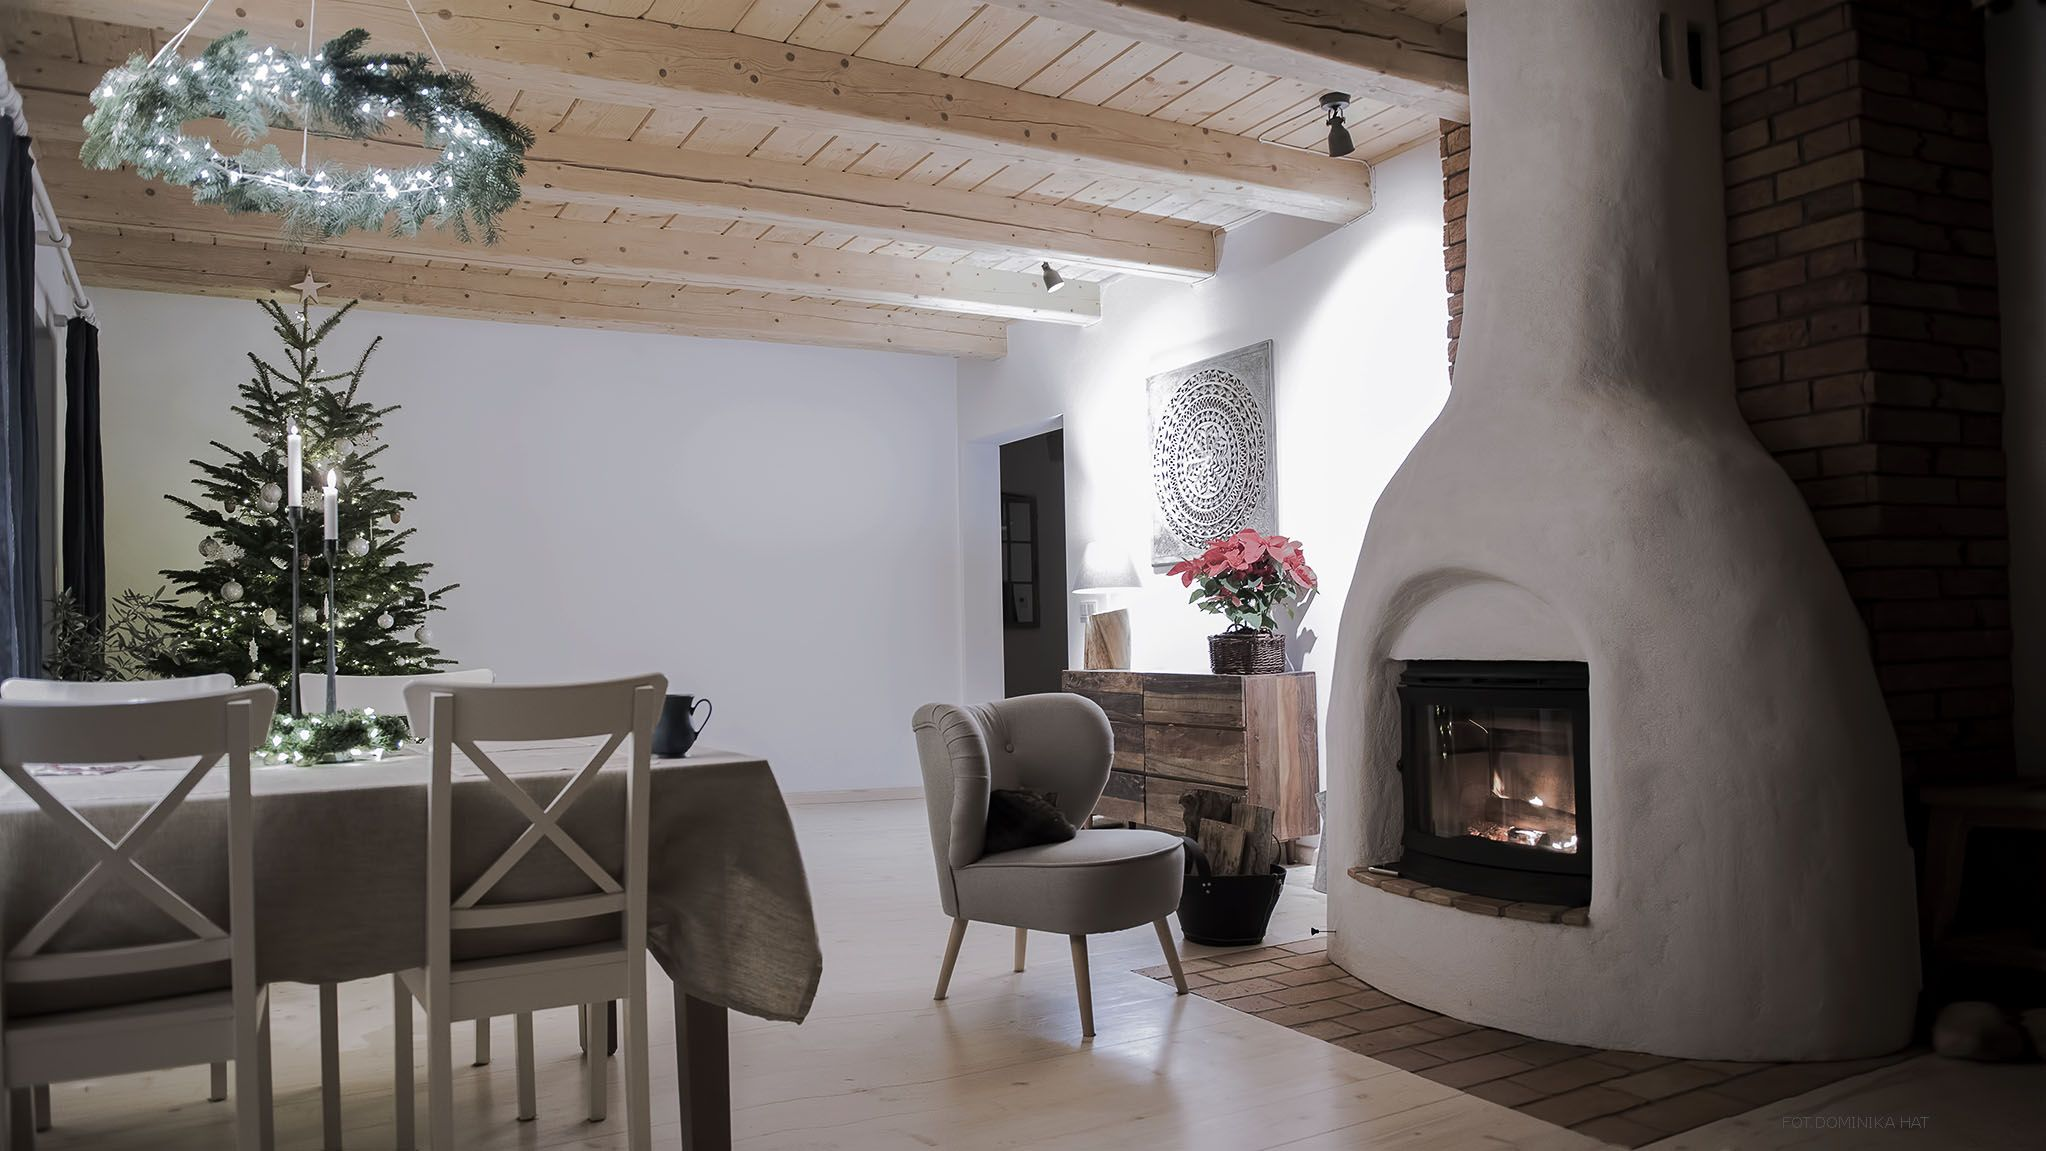
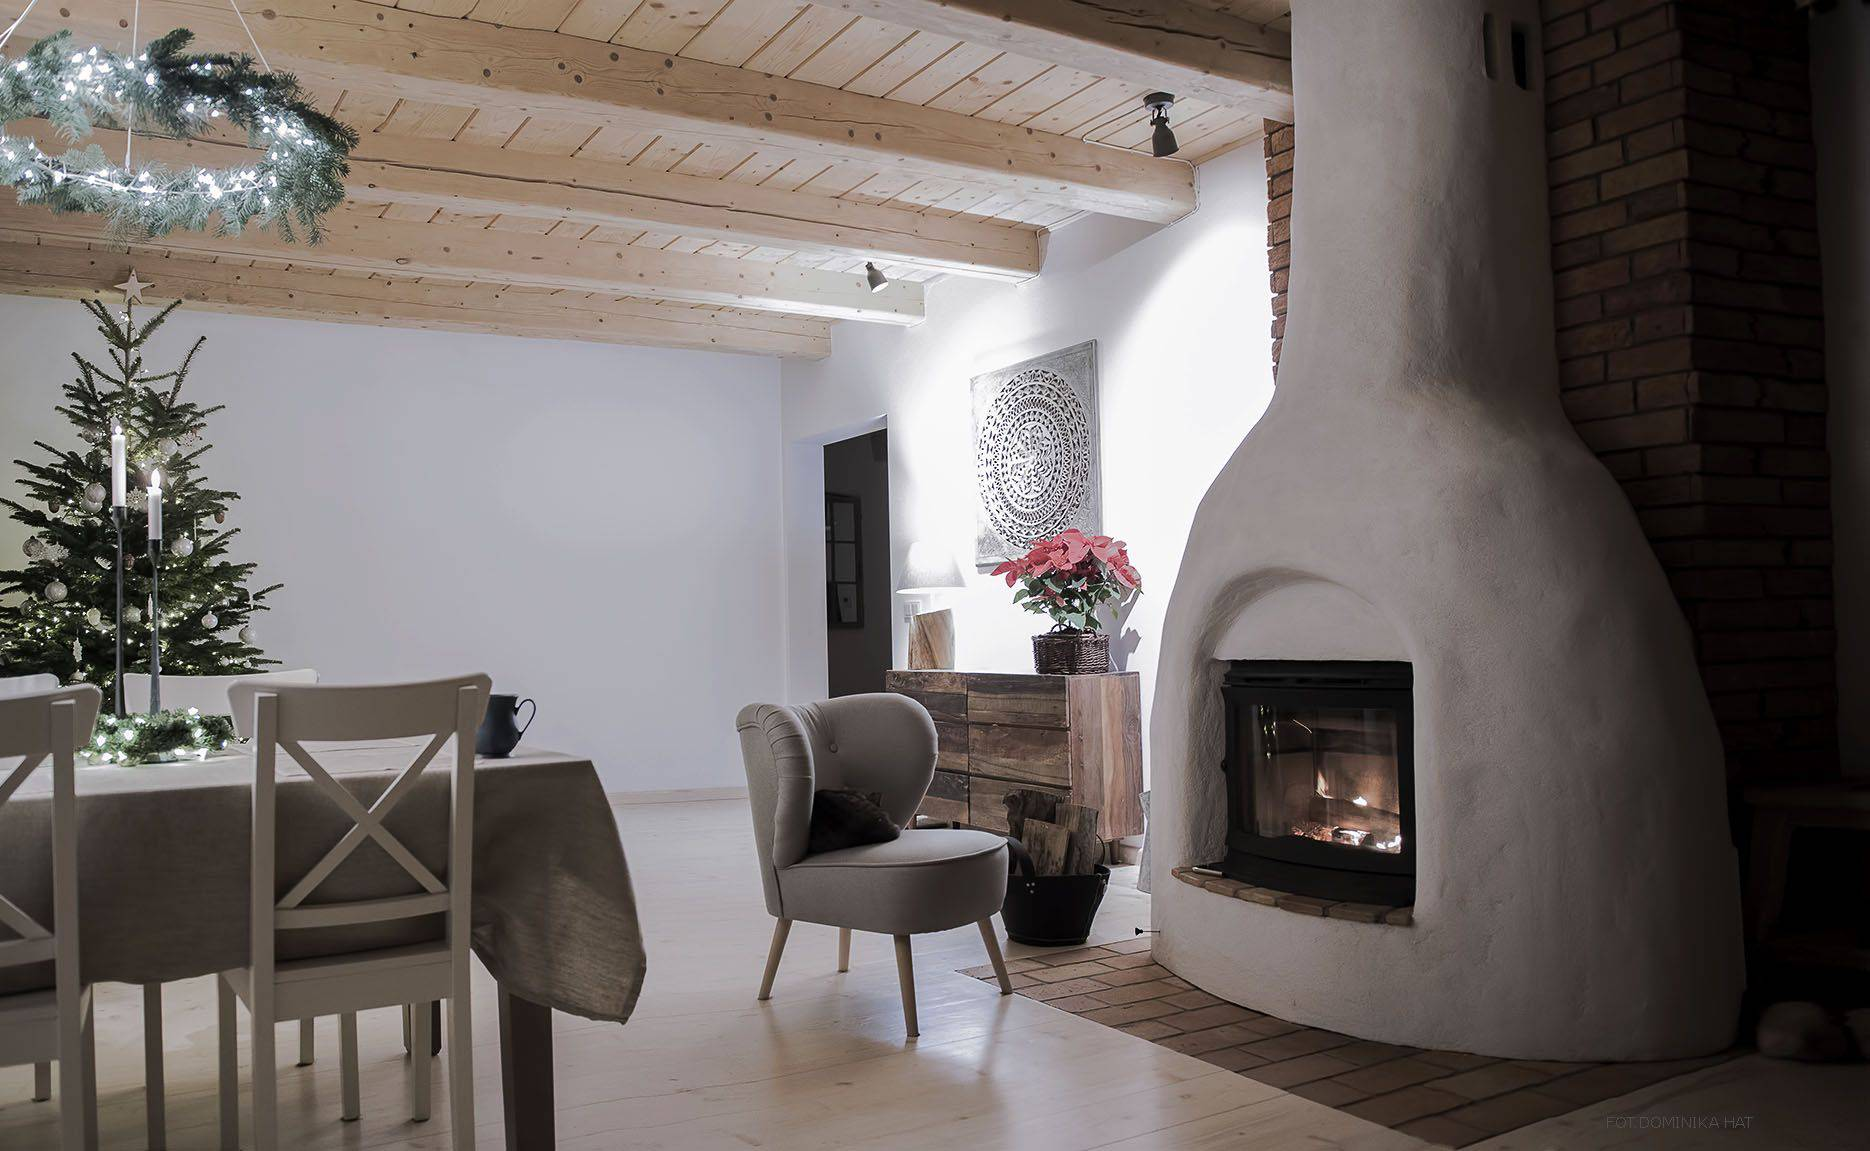
change media queries and photos in slider

diff --git a/src/style/_slider.scss b/src/style/_slider.scss
@@ -8,20 +8,44 @@
   position: absolute;
   top: 50%;
   left: 50%;
-  transform: translate(-50%, -50%) scale(1.5);
+  transform: translate(-50%, -50%) scale(1.2);
   opacity: 0;
   transition: 2s;
+  width: 100%;
 
-  @media (orientation: landscape) {
-    transform: translate(-50%, -50%) scale(1.4);
+  @media (orientation: portrait) and (min-height: 568px) {
+    transform: translate(-50%, -50%) scale(1.3);
   }
 
-  @media (min-width: 1280px) and(orientation: landscape) {
+  @media (orientation: portrait) and (min-height: 800px) {
+    transform: translate(-50%, -50%) scale(1.5);
+  }
+
+  @media (orientation: portrait) and (min-height: 1024px) {
     transform: translate(-50%, -50%) scale(1);
   }
 
+  @media (orientation: landscape) {
+    transform: translate(-50%, -50%) scale(1);
+  }
+
+  @media (orientation: landscape) and (min-width: 1024px) {
+    transform: translate(-50%, -50%) scale(1.3);
+  }
+
+  @media (orientation: landscape) and (min-width: 1280px) {
+    transform: translate(-50%, -50%) scale(1.3);
+  }
+
+  @media (orientation: landscape) and (min-width: 1600px) {
+    transform: translate(-50%, -50%) scale(1);
+  }
+
+
+
   img {
-    height: 100vh;
+    // height: auto;
+    width: 100%;
 
     @media (orientation: landscape) {
       width: 100vw;
